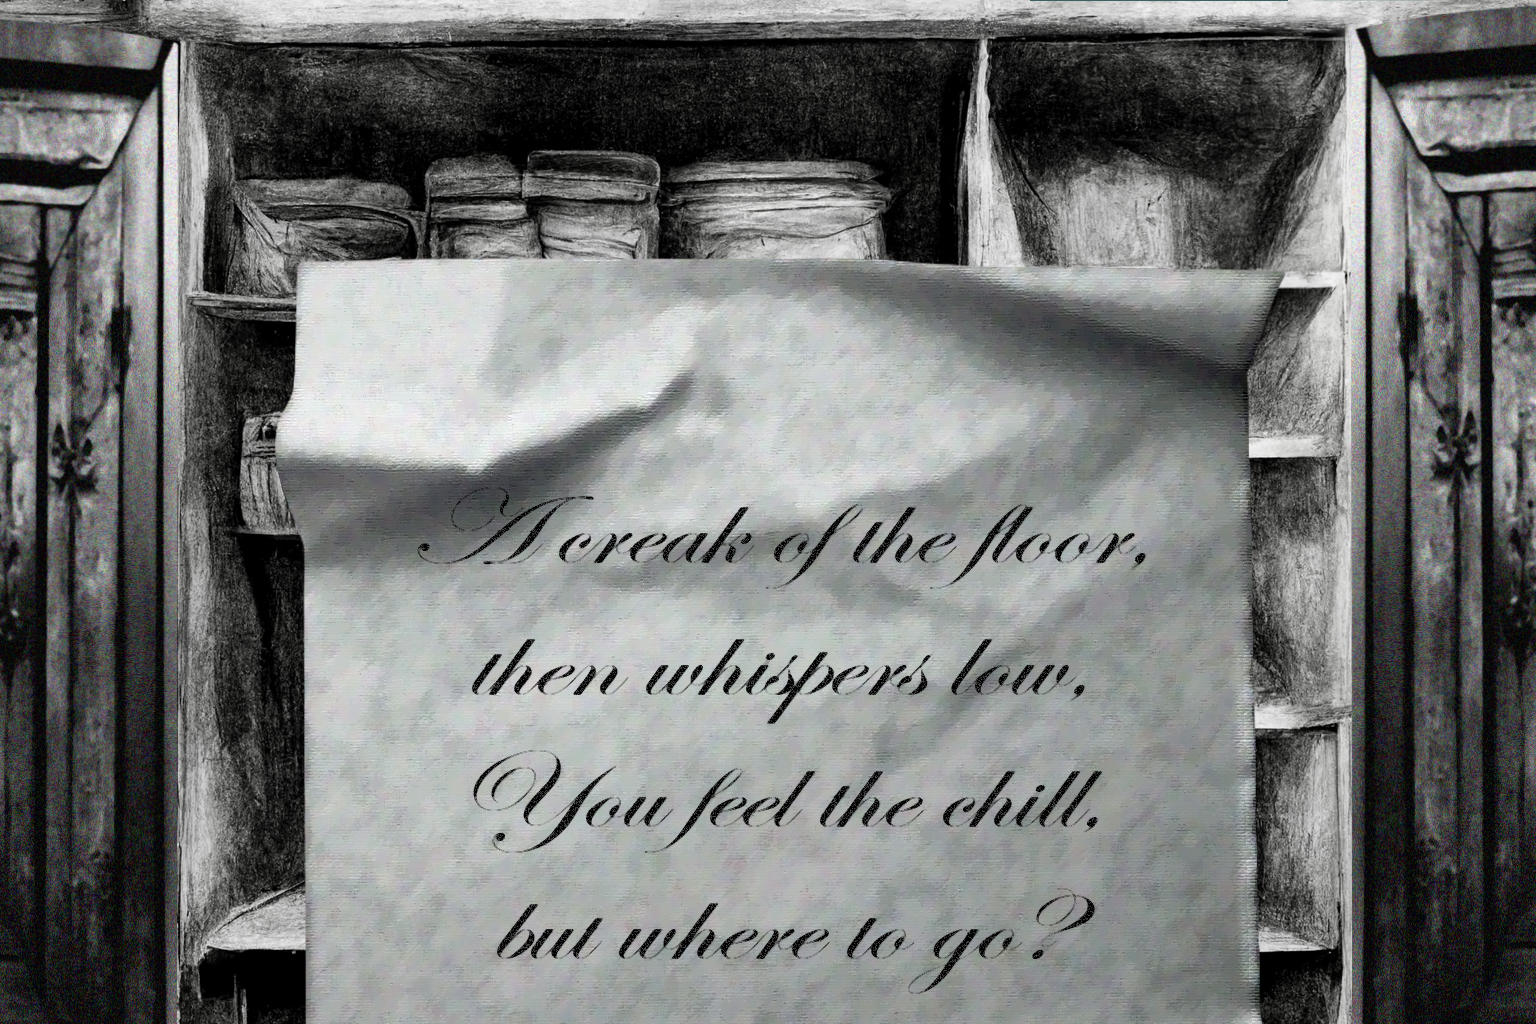
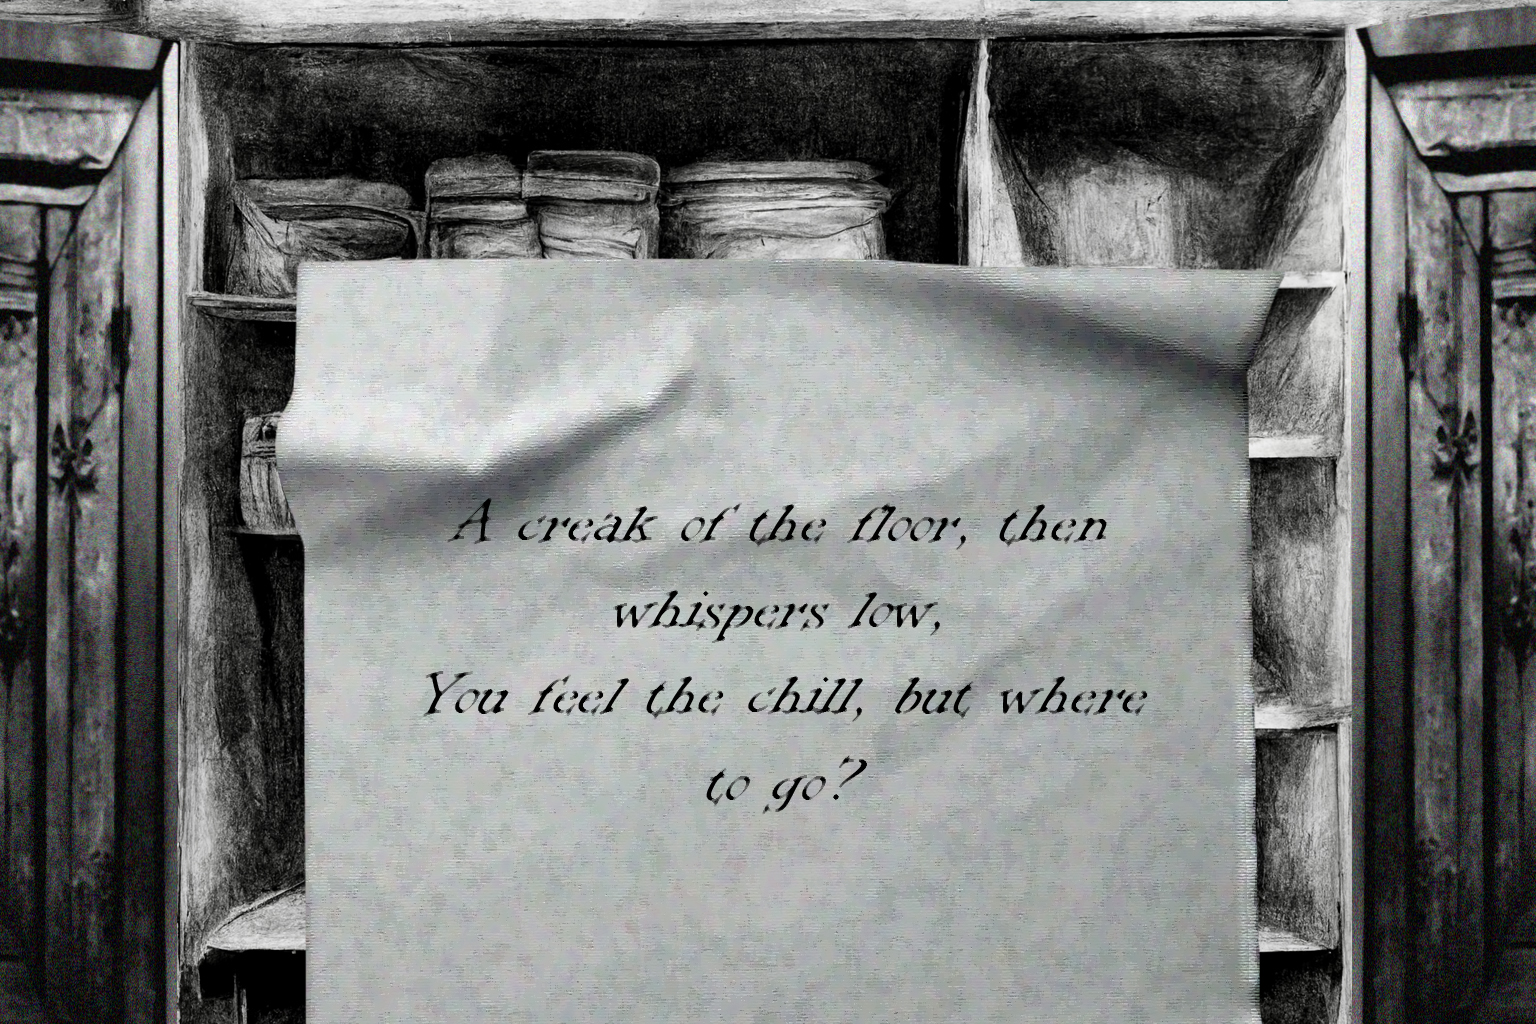
editing the dialogue and the poem

diff --git a/src/scenes.py b/src/scenes.py
@@ -30,7 +30,7 @@ class Start(Node):
         if not self.dialogue_started:
             self.start_dialogue([
                 "Where am I?",
-                "And the strangest thing, why am I here right now?"
+                "And the strangest thing is... why am I here?"
             ])
             self.dialogue_started = True
 
@@ -971,7 +971,6 @@ class CityPart5BusInside(Node):
         # Handle dialogue progression
         if self.ticket_used and not self.dialogue_started:
             self.start_dialogue([
-                "...",
                 "I can talk with the driver, maybe...",
                 "He doesn't seem to be that creepy."
             ])
@@ -1076,7 +1075,7 @@ class BusDriver(Node):
                     ("...", (255, 255, 255)),
                     ("Hi! You are the first living thing I have seen here so far...", (255, 255, 255)),
                     ("Can I disturb you while you are driving?", (255, 255, 255)),
-                    ("I am so lonely and lost here...", (255, 255, 255)),
+                    ("I am so lonely and lost here... and scared...", (255, 255, 255)),
                     ("Sure!", (255, 182, 193)),
                     ("I know how you feel.", (255, 182, 193)),
                     ("I will take you to where you belong, because this is definitely not it.", (255, 182, 193)),
@@ -1114,13 +1113,22 @@ class BusDriver(Node):
                     ("Would ruin the surprise.", (255, 182, 193)),
                     ("...", (255, 255, 255)),
                     ("Surprise?", (255, 255, 255)),
-                    ("Trust the process.", (255, 182, 193)),
                     ("You’re the type who likes control, right?", (255, 182, 193)),
                     ("That’s cute.", (255, 182, 193)),
                     ("But you lost control a while ago.", (255, 182, 193)),
                     ("...", (255, 255, 255)),
+                    ("Which is not a surprise considering your upbringing...", (255, 182, 193)),
+                    ("And everything that happened to you even after you left them.", (255, 182, 193)),
+                    ("The fear, the anger... it devoured you.", (255, 182, 193)),
+                    ("Listen, girl...", (255, 182, 193)),
+                    ("Your intense fear only keeps you stuck.", (255, 182, 193)),
+                    ("It triggers avoidance, self-doubt, and can make you feel powerless.", (255, 182, 193)),
+                    ("However, anger, when channeled properly, can be empowering.", (255, 182, 193)),
+                    ("It pushes you to set boundaries and take action.", (255, 182, 193)),
+                    ("Reclaim your autonomy!", (255, 182, 193)),
                     ("Either way, it’s time.", (255, 182, 193)),
-                    ("I have to drop you off now.", (255, 182, 193)),
+                    ("Why do I feel like I know you?", (255, 255, 255)),
+                    ("Sorry, girl, I have to drop you off now.", (255, 182, 193)),
                     ("Close your eyes. This part is... weird.", (255, 182, 193)),
                     ("And from now on, don't be a scared little bitch", (255, 182, 193)),
                 ])
@@ -1198,7 +1206,7 @@ class BusDriver(Node):
                 "or what I see when I don’t.",
                 "",
                 "But today is special!",
-                "Today, I have birthday.",
+                "Today, it's my birthday.",
                 "Today, I get a cake.",
                 "",
                 "It looks delicious.",

diff --git a/src/game.py b/src/game.py
@@ -21,10 +21,10 @@ class Game:
         except Exception as e:
             print(f"Music loading error: {e}")
 
-        from scene_manager import city_part_5_2_5  # Normally: start_scene, when testing: city_part_5_1_1
+        from scene_manager import start_scene  # Normally: start_scene, when testing: city_part_5_1_1
 
         # Start with location1
-        self.current_scene = city_part_5_2_5  # Normally: start_scene, when testing: city_part_5_1_1
+        self.current_scene = start_scene  # Normally: start_scene, when testing: city_part_5_1_1
         self.inventory = Inventory()
         self.clock = pygame.time.Clock()
 
